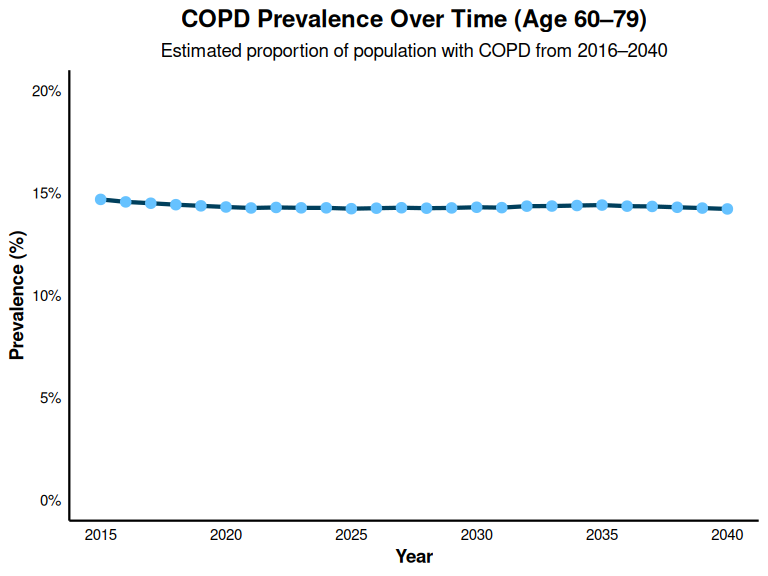
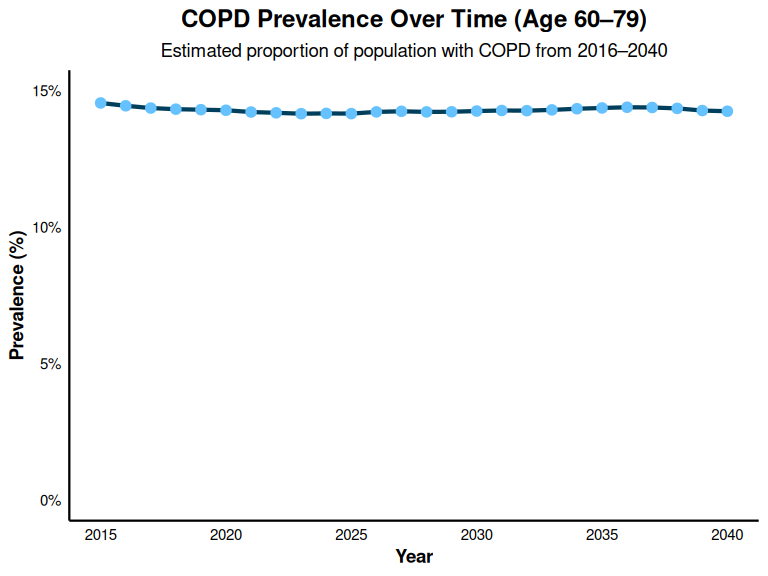
Updated COPD Prevalence Vignette

diff --git a/vignettes/Calibrate_COPD_Prevalence.md b/vignettes/Calibrate_COPD_Prevalence.md
@@ -9,20 +9,18 @@ using NHANES data in which COPD was defined according to the Lower Limit
 of Normal (LLN) definition. The calibration was conducted over a 25-year
 simulation time horizon.
 
-Validation Reference: Tilert et al. 2013 (DOI: 10.1186/1465-9921-14-103)
+**Validation Reference:** Tilert et al. 2013 (DOI:
+10.1186/1465-9921-14-103)
 
-Target Prevalence Rates from NHANES (Ages 40–79 years):
+**Target Prevalence Rates from NHANES (Ages 40–79 years):**
 
-Age-specific prevalence: 40–59 years: 8.1% 60–79 years: 14.4%
+**Age-specific prevalence:** 40–59 years: 8.1% 60–79 years: 14.4%
 
-Sex-specific prevalence: Males: 12.0% Females: 8.6%
+**Sex-specific prevalence:** Males: 12.0% Females: 8.6%
 
 It is important to note that the EPIC model simulates individuals aged
 40 and older, including those ≥80 years, whereas Tilert et al. 2013
-included only individuals aged 40–79. As a result, modeled estimates of
-overall prevalence may be marginally higher than those reported by
-Tilert et al. 2013 particularly due to increased COPD prevalence at
-older ages.
+included only individuals aged 40–79.
 
 Given this limitation, the calibration emphasized preserving the
 sex-specific prevalence ratio observed in Tilert et al. 2013 (1.4:1;
@@ -30,6 +28,20 @@ sex-specific prevalence ratio observed in Tilert et al. 2013 (1.4:1;
 deemed adequately calibrated if this ratio was maintained, even if
 absolute prevalence values by sex differed slightly due to inclusion of
 older age groups.
+
+**Evolution of LLN Reference Equations and Impact on COPD Prevalence
+Estimation**
+
+Reference equations used to define the LLN for spirometry to diagnose
+COPD have evolved over time, moving from race-specific models toward
+more inclusive, race-neutral approaches. Tilert et al. 2013 defined COPD
+using LLN values derived from the Hankinson equation, a race-specific
+model widely used in earlier guidelines. In contrast, current guidelines
+recommend using the Global Lung Function Initiative (GLI) race-neutral
+reference equations. A recent analysis by Cadham et al. 2024 (DOI:
+10.1186/s12931-024-02841-y) compared COPD prevalence estimates based on
+the Hankinson and GLI race-neutral equations and found no significant
+differences between the two approaches.
 
 ### Step 1: Load libraries and setup
 
@@ -103,6 +115,12 @@ COPDprevalence_ctime_age<-output$n_COPD_by_ctime_age
 COPDprevalence_ctime_age<-as.data.frame(output$n_COPD_by_ctime_age)
 totalpopulation<-output$n_alive_by_ctime_age
 
+# Overall prevalence of COPD
+
+alive_age_all <- rowSums(output$n_alive_by_ctime_age[1:26, 40:111])
+COPD_age_all <- rowSums (output$n_COPD_by_ctime_age[1:26, 40:111])
+prevalenceCOPD_age_all <- COPD_age_all / alive_age_all
+
 # Prevalence by age 40-59 
 
 alive_age_40to59 <- rowSums(output$n_alive_by_ctime_age[1:26, 40:59])
@@ -125,6 +143,7 @@ prevalenceCOPD_age_over80 <- COPD_age_over80 / alive_age_over80
 
 COPD_prevalence_summary <- data.frame(
   Year = 2015:2040,
+  Prevalence_all = prevalenceCOPD_age_all,
   Prevalence_40to59 = prevalenceCOPD_age_40to59,
   Prevalence_60to79 = prevalenceCOPD_age_60to79,
   Prevalence_over80 = prevalenceCOPD_age_over80
@@ -135,50 +154,62 @@ kable(COPD_prevalence_summary,
       digits = 3)
 ```
 
-| Year | Prevalence_40to59 | Prevalence_60to79 | Prevalence_over80 |
-|-----:|------------------:|------------------:|------------------:|
-| 2015 |             0.086 |             0.147 |             0.241 |
-| 2016 |             0.085 |             0.146 |             0.237 |
-| 2017 |             0.085 |             0.145 |             0.233 |
-| 2018 |             0.085 |             0.144 |             0.230 |
-| 2019 |             0.084 |             0.144 |             0.228 |
-| 2020 |             0.084 |             0.143 |             0.225 |
-| 2021 |             0.084 |             0.143 |             0.223 |
-| 2022 |             0.083 |             0.143 |             0.221 |
-| 2023 |             0.083 |             0.143 |             0.218 |
-| 2024 |             0.082 |             0.143 |             0.216 |
-| 2025 |             0.082 |             0.142 |             0.214 |
-| 2026 |             0.082 |             0.143 |             0.213 |
-| 2027 |             0.081 |             0.143 |             0.210 |
-| 2028 |             0.081 |             0.143 |             0.209 |
-| 2029 |             0.081 |             0.143 |             0.207 |
-| 2030 |             0.081 |             0.143 |             0.205 |
-| 2031 |             0.080 |             0.143 |             0.205 |
-| 2032 |             0.080 |             0.144 |             0.204 |
-| 2033 |             0.079 |             0.144 |             0.204 |
-| 2034 |             0.079 |             0.144 |             0.202 |
-| 2035 |             0.078 |             0.144 |             0.201 |
-| 2036 |             0.077 |             0.144 |             0.199 |
-| 2037 |             0.077 |             0.143 |             0.197 |
-| 2038 |             0.076 |             0.143 |             0.196 |
-| 2039 |             0.076 |             0.143 |             0.195 |
-| 2040 |             0.075 |             0.142 |             0.194 |
+| Year | Prevalence_all | Prevalence_40to59 | Prevalence_60to79 | Prevalence_over80 |
+|-----:|---------------:|------------------:|------------------:|------------------:|
+| 2015 |          0.120 |             0.085 |             0.145 |             0.241 |
+| 2016 |          0.119 |             0.085 |             0.144 |             0.236 |
+| 2017 |          0.118 |             0.085 |             0.144 |             0.232 |
+| 2018 |          0.118 |             0.085 |             0.143 |             0.227 |
+| 2019 |          0.118 |             0.084 |             0.143 |             0.224 |
+| 2020 |          0.118 |             0.084 |             0.143 |             0.221 |
+| 2021 |          0.117 |             0.084 |             0.142 |             0.219 |
+| 2022 |          0.117 |             0.083 |             0.142 |             0.216 |
+| 2023 |          0.117 |             0.083 |             0.142 |             0.215 |
+| 2024 |          0.117 |             0.083 |             0.142 |             0.213 |
+| 2025 |          0.117 |             0.082 |             0.142 |             0.211 |
+| 2026 |          0.117 |             0.082 |             0.142 |             0.209 |
+| 2027 |          0.117 |             0.081 |             0.142 |             0.208 |
+| 2028 |          0.117 |             0.081 |             0.142 |             0.206 |
+| 2029 |          0.117 |             0.081 |             0.142 |             0.205 |
+| 2030 |          0.117 |             0.081 |             0.143 |             0.203 |
+| 2031 |          0.117 |             0.080 |             0.143 |             0.202 |
+| 2032 |          0.117 |             0.080 |             0.143 |             0.202 |
+| 2033 |          0.116 |             0.079 |             0.143 |             0.201 |
+| 2034 |          0.116 |             0.078 |             0.143 |             0.199 |
+| 2035 |          0.116 |             0.078 |             0.144 |             0.198 |
+| 2036 |          0.116 |             0.077 |             0.144 |             0.197 |
+| 2037 |          0.116 |             0.077 |             0.144 |             0.195 |
+| 2038 |          0.115 |             0.076 |             0.144 |             0.195 |
+| 2039 |          0.115 |             0.076 |             0.143 |             0.195 |
+| 2040 |          0.115 |             0.075 |             0.142 |             0.195 |
 
 COPD Prevalence by Age Group Over Time
 
 ### Step 5: Visualize data by age category
 
-Visualize COPD prevalence from age 40 to 59
+COPD prevalence is projected to decline moderately between 2025 and
+2050, as reported by Boers et al. 2023 (DOI:
+10.1001/jamanetworkopen.2023.46598). A similar trend is observed in EPIC
+model projections of overall COPD prevalence. However, a limitation of
+EPIC include underestimating the size of the population aged 80 and
+older. As COPD prevalence increases with age, this results in a
+overestimation of overall COPD prevalence in the simulated population.
+
+**COPD prevalence all age groups**
+
+![](./Figures/prevalenceall.png)
+
+**COPD prevalence from age 40 to 59**
 
 ![](./Figures/prevalenceof40to59.png)
 
-Visualize COPD prevalence from age 60 to 79
+**COPD prevalence from age 60 to 79**
 
 ![](./Figures/prevalenceof60to79.png)
 
-Visualize COPD prevalence from age 80+
+**COPD prevalence from age 80+**
 
-![](./Figures/prevalenceofover80.png)
+![](./Figures/prevalenceover80.png)
 
 ### Step 6: Create data tables by sex to check if gender distribution matches Tilert et al 2013 (<doi:10.1186/1465-9921-14-103>))
 
@@ -205,31 +236,31 @@ kable(prevalenceCOPD_sex,
 
 |  Male | Female | Year |
 |------:|-------:|-----:|
-| 0.144 |  0.097 | 2015 |
-| 0.142 |  0.097 | 2016 |
-| 0.141 |  0.097 | 2017 |
-| 0.140 |  0.098 | 2018 |
-| 0.139 |  0.098 | 2019 |
+| 0.143 |  0.097 | 2015 |
+| 0.141 |  0.097 | 2016 |
+| 0.140 |  0.097 | 2017 |
+| 0.139 |  0.097 | 2018 |
+| 0.139 |  0.097 | 2019 |
 | 0.138 |  0.098 | 2020 |
-| 0.138 |  0.098 | 2021 |
+| 0.137 |  0.098 | 2021 |
 | 0.137 |  0.099 | 2022 |
-| 0.137 |  0.100 | 2023 |
-| 0.137 |  0.100 | 2024 |
-| 0.136 |  0.100 | 2025 |
-| 0.136 |  0.101 | 2026 |
+| 0.136 |  0.099 | 2023 |
+| 0.136 |  0.100 | 2024 |
+| 0.135 |  0.100 | 2025 |
+| 0.135 |  0.101 | 2026 |
 | 0.135 |  0.101 | 2027 |
-| 0.135 |  0.101 | 2028 |
+| 0.134 |  0.101 | 2028 |
 | 0.134 |  0.102 | 2029 |
-| 0.134 |  0.102 | 2030 |
-| 0.134 |  0.102 | 2031 |
-| 0.133 |  0.102 | 2032 |
-| 0.133 |  0.102 | 2033 |
-| 0.132 |  0.103 | 2034 |
-| 0.132 |  0.103 | 2035 |
-| 0.131 |  0.102 | 2036 |
-| 0.131 |  0.102 | 2037 |
-| 0.130 |  0.102 | 2038 |
-| 0.129 |  0.102 | 2039 |
+| 0.133 |  0.102 | 2030 |
+| 0.133 |  0.102 | 2031 |
+| 0.132 |  0.102 | 2032 |
+| 0.132 |  0.102 | 2033 |
+| 0.131 |  0.103 | 2034 |
+| 0.131 |  0.103 | 2035 |
+| 0.131 |  0.103 | 2036 |
+| 0.130 |  0.103 | 2037 |
+| 0.130 |  0.103 | 2038 |
+| 0.129 |  0.103 | 2039 |
 | 0.129 |  0.102 | 2040 |
 
 COPD Prevalence by Sex Over Time
